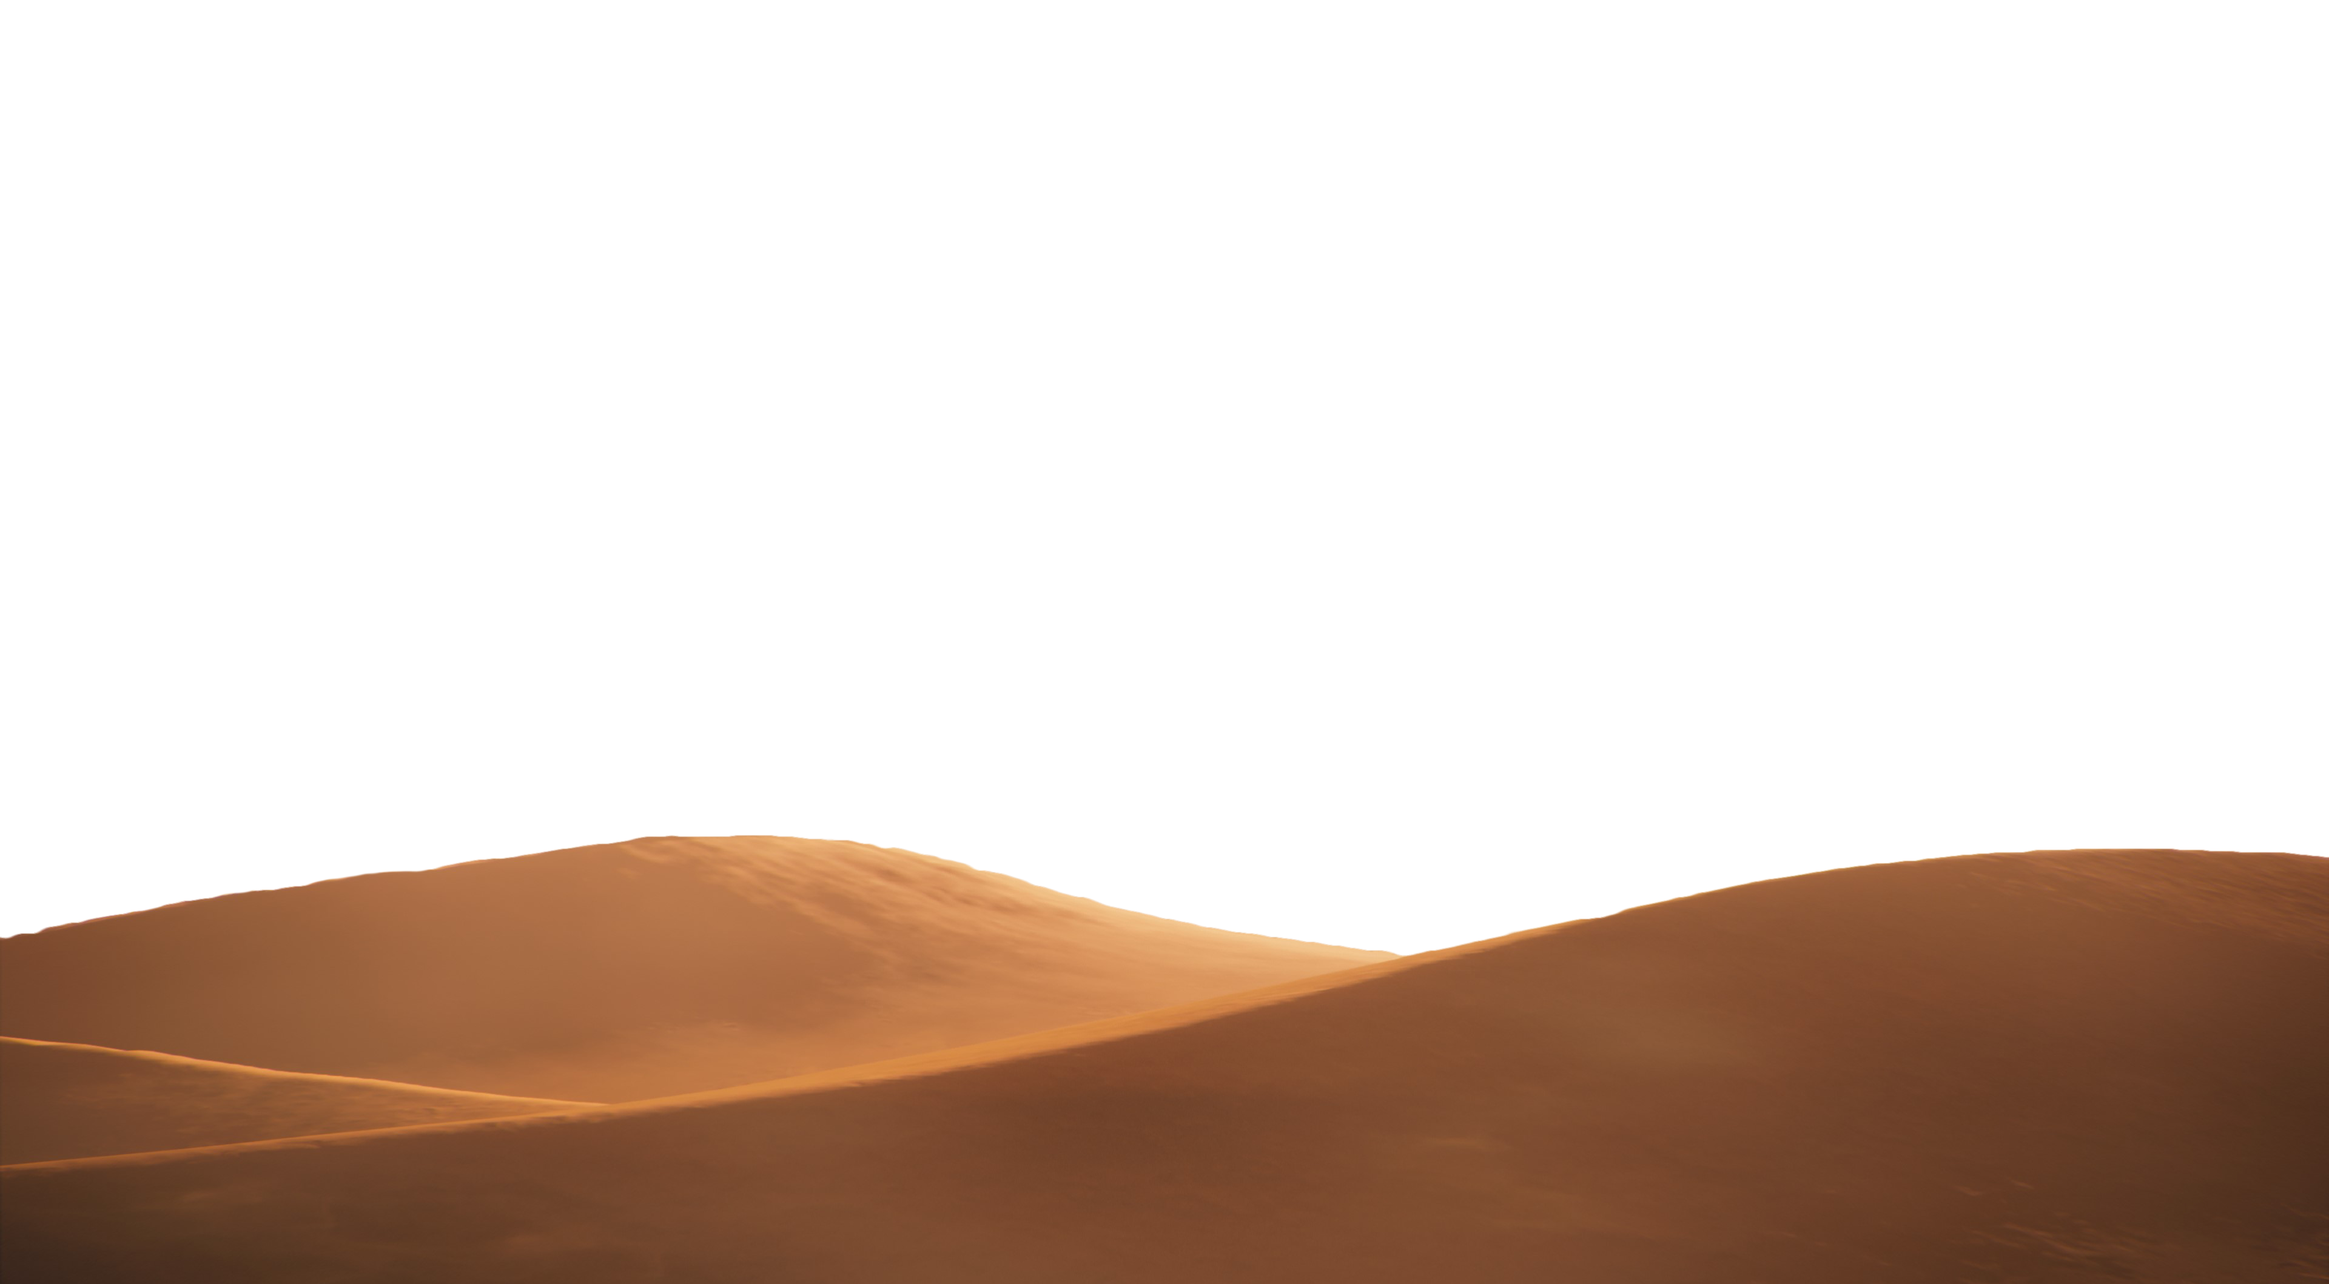
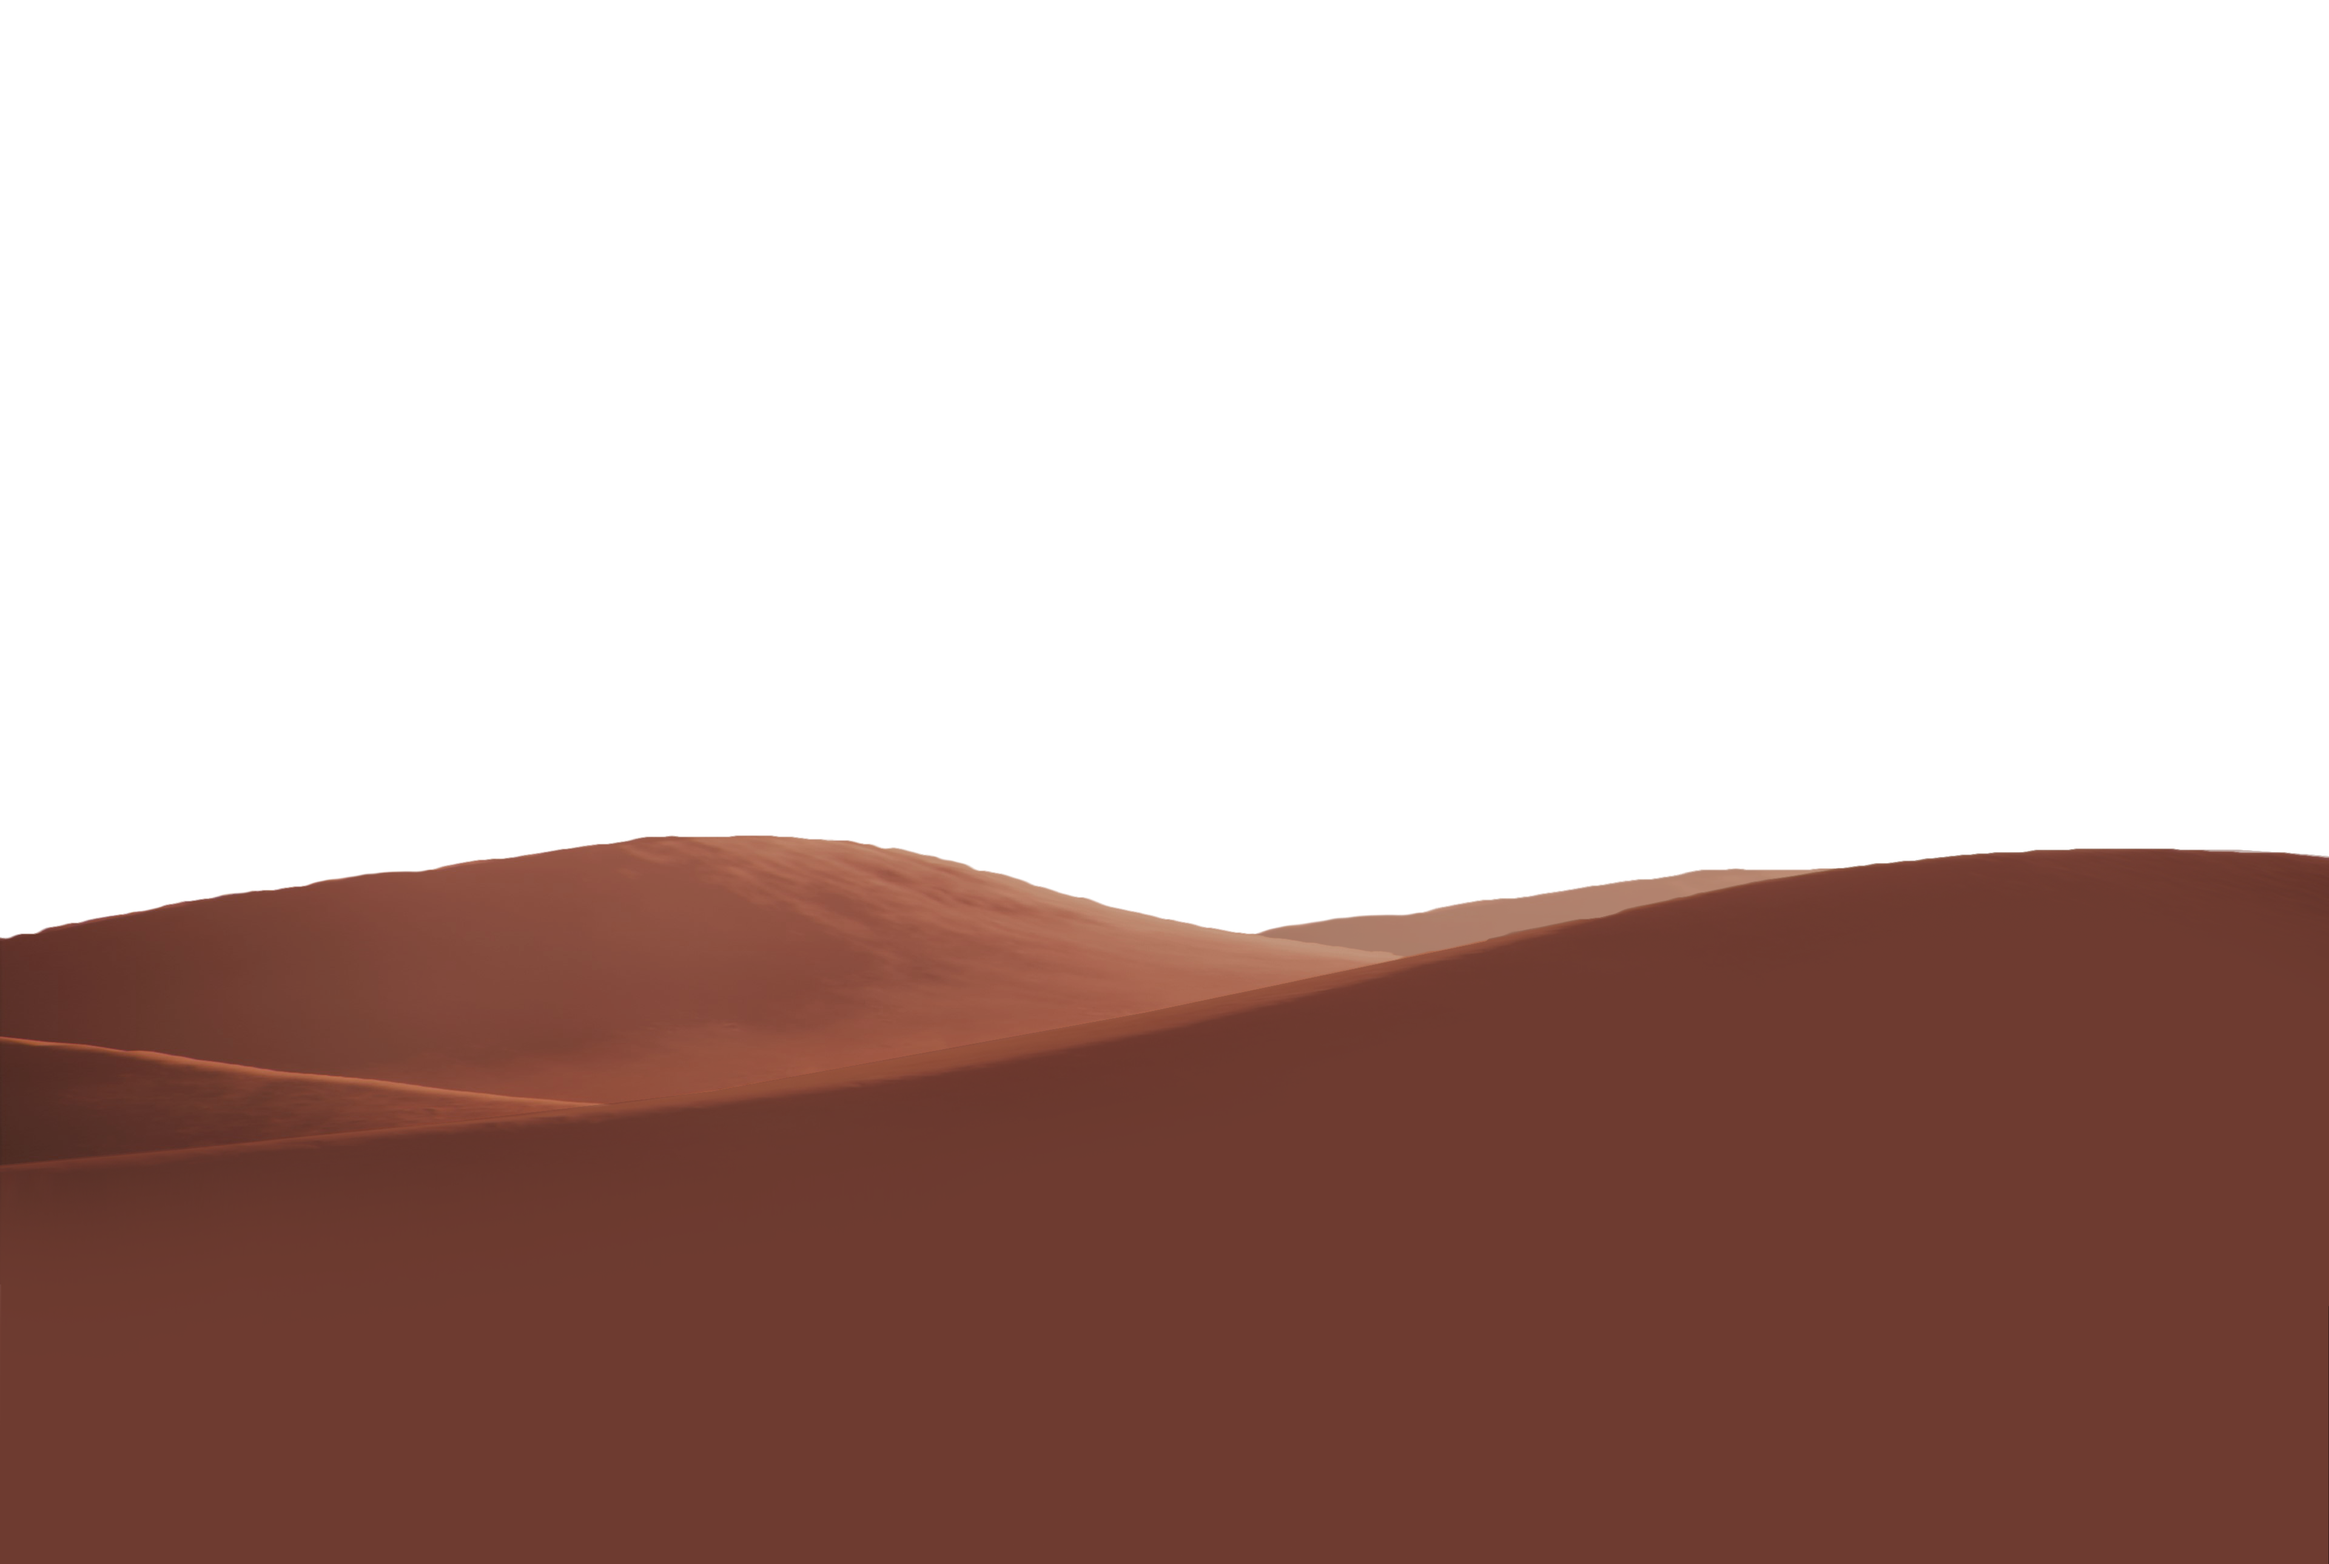
Modificato immagini

Changed region(s): [[0.0, 0.5297, 1.0, 1.0], [0.8438, 0.8102, 1.0, 1.0], [0.625, 0.8725, 0.6562, 0.9037]]

diff --git a/web-app-Museo/wwwroot/css/site.css b/web-app-Museo/wwwroot/css/site.css
@@ -41,6 +41,13 @@ body {
     width: 100%;
 }
 
+.sfondoTerra {
+    background-color: rgb(110,59,48);
+    background-size: cover;
+    height: 100%;
+    width: 100%;
+}
+
 
 marquee {
     height: 300px;
